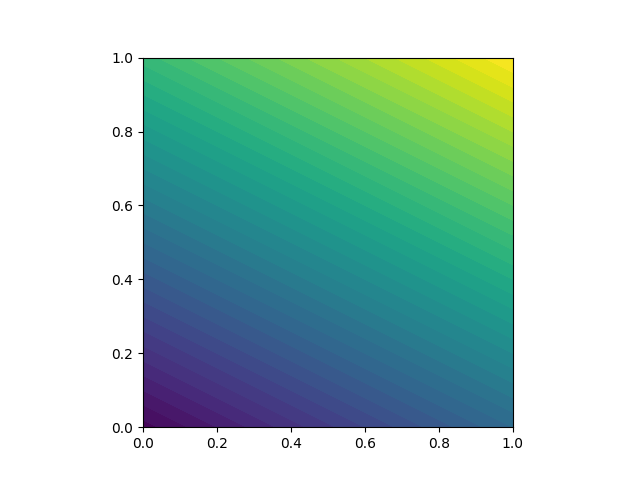
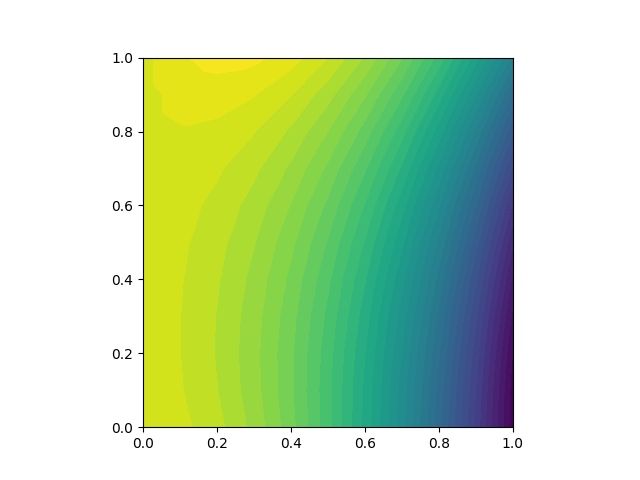
further messed with the nonlinear equation code

diff --git a/Environmental Model/jitfailure-dolfin_expression_3fa635c66722b083da6c61aa50051709/dolfin_expression_3fa635c66722b083da6c61aa50051709.cpp b/Environmental Model/jitfailure-dolfin_expression_3fa635c66722b083da6c61aa50051709/dolfin_expression_3fa635c66722b083da6c61aa50051709.cpp
@@ -1,0 +1,97 @@
+
+// Based on https://gcc.gnu.org/wiki/Visibility
+#if defined _WIN32 || defined __CYGWIN__
+    #ifdef __GNUC__
+        #define DLL_EXPORT __attribute__ ((dllexport))
+    #else
+        #define DLL_EXPORT __declspec(dllexport)
+    #endif
+#else
+    #define DLL_EXPORT __attribute__ ((visibility ("default")))
+#endif
+
+#include <dolfin/function/Expression.h>
+#include <dolfin/math/basic.h>
+#include <Eigen/Dense>
+
+
+// cmath functions
+using std::cos;
+using std::sin;
+using std::tan;
+using std::acos;
+using std::asin;
+using std::atan;
+using std::atan2;
+using std::cosh;
+using std::sinh;
+using std::tanh;
+using std::exp;
+using std::frexp;
+using std::ldexp;
+using std::log;
+using std::log10;
+using std::modf;
+using std::pow;
+using std::sqrt;
+using std::ceil;
+using std::fabs;
+using std::floor;
+using std::fmod;
+using std::max;
+using std::min;
+
+const double pi = DOLFIN_PI;
+
+
+namespace dolfin
+{
+  class dolfin_expression_3fa635c66722b083da6c61aa50051709 : public Expression
+  {
+     public:
+       
+
+       dolfin_expression_3fa635c66722b083da6c61aa50051709()
+       {
+            
+       }
+
+       void eval(Eigen::Ref<Eigen::VectorXd> values, Eigen::Ref<const Eigen::VectorXd> x) const override
+       {
+          values[0] = 1-x[0]**2+0.23*x[1]**3;
+
+       }
+
+       void set_property(std::string name, double _value) override
+       {
+
+       throw std::runtime_error("No such property");
+       }
+
+       double get_property(std::string name) const override
+       {
+
+       throw std::runtime_error("No such property");
+       return 0.0;
+       }
+
+       void set_generic_function(std::string name, std::shared_ptr<dolfin::GenericFunction> _value) override
+       {
+
+       throw std::runtime_error("No such property");
+       }
+
+       std::shared_ptr<dolfin::GenericFunction> get_generic_function(std::string name) const override
+       {
+
+       throw std::runtime_error("No such property");
+       }
+
+  };
+}
+
+extern "C" DLL_EXPORT dolfin::Expression * create_dolfin_expression_3fa635c66722b083da6c61aa50051709()
+{
+  return new dolfin::dolfin_expression_3fa635c66722b083da6c61aa50051709;
+}
+

diff --git a/Environmental Model/jitfailure-dolfin_expression_160daff3d522bcfa064b8c0a8ee6626a/dolfin_expression_160daff3d522bcfa064b8c0a8ee6626a.cpp b/Environmental Model/jitfailure-dolfin_expression_160daff3d522bcfa064b8c0a8ee6626a/dolfin_expression_160daff3d522bcfa064b8c0a8ee6626a.cpp
@@ -1,0 +1,97 @@
+
+// Based on https://gcc.gnu.org/wiki/Visibility
+#if defined _WIN32 || defined __CYGWIN__
+    #ifdef __GNUC__
+        #define DLL_EXPORT __attribute__ ((dllexport))
+    #else
+        #define DLL_EXPORT __declspec(dllexport)
+    #endif
+#else
+    #define DLL_EXPORT __attribute__ ((visibility ("default")))
+#endif
+
+#include <dolfin/function/Expression.h>
+#include <dolfin/math/basic.h>
+#include <Eigen/Dense>
+
+
+// cmath functions
+using std::cos;
+using std::sin;
+using std::tan;
+using std::acos;
+using std::asin;
+using std::atan;
+using std::atan2;
+using std::cosh;
+using std::sinh;
+using std::tanh;
+using std::exp;
+using std::frexp;
+using std::ldexp;
+using std::log;
+using std::log10;
+using std::modf;
+using std::pow;
+using std::sqrt;
+using std::ceil;
+using std::fabs;
+using std::floor;
+using std::fmod;
+using std::max;
+using std::min;
+
+const double pi = DOLFIN_PI;
+
+
+namespace dolfin
+{
+  class dolfin_expression_160daff3d522bcfa064b8c0a8ee6626a : public Expression
+  {
+     public:
+       
+
+       dolfin_expression_160daff3d522bcfa064b8c0a8ee6626a()
+       {
+            
+       }
+
+       void eval(Eigen::Ref<Eigen::VectorXd> values, Eigen::Ref<const Eigen::VectorXd> x) const override
+       {
+          values[0] = 1-x[0]^2+0.23*x[1]^3;
+
+       }
+
+       void set_property(std::string name, double _value) override
+       {
+
+       throw std::runtime_error("No such property");
+       }
+
+       double get_property(std::string name) const override
+       {
+
+       throw std::runtime_error("No such property");
+       return 0.0;
+       }
+
+       void set_generic_function(std::string name, std::shared_ptr<dolfin::GenericFunction> _value) override
+       {
+
+       throw std::runtime_error("No such property");
+       }
+
+       std::shared_ptr<dolfin::GenericFunction> get_generic_function(std::string name) const override
+       {
+
+       throw std::runtime_error("No such property");
+       }
+
+  };
+}
+
+extern "C" DLL_EXPORT dolfin::Expression * create_dolfin_expression_160daff3d522bcfa064b8c0a8ee6626a()
+{
+  return new dolfin::dolfin_expression_160daff3d522bcfa064b8c0a8ee6626a;
+}
+

diff --git a/Environmental Model/diffusion_example.py b/Environmental Model/diffusion_example.py
@@ -6,28 +6,20 @@
 # `q` from FEniCS. We therefore import FEniCS first and then
 # overwrite these objects.
 from fenics import *
-
+import numpy as np
 def q(u):
     "Return nonlinear coefficient"
-    return 1 + u**2
-
-# Use SymPy to compute f from the manufactured solution u
-import sympy as sym
-x, y = sym.symbols('x[0], x[1]')
-u = 1 + x + 2*y
-f = - sym.diff(q(u)*sym.diff(u, x), x) - sym.diff(q(u)*sym.diff(u, y), y)
-f = sym.simplify(f)
-u_code = sym.printing.ccode(u)
-f_code = sym.printing.ccode(f)
-print('u =', u_code)
-print('f =', f_code)
-
+    return 1 + u**3
 # Create mesh and define function space
-mesh = UnitSquareMesh(8, 8)
-V = FunctionSpace(mesh, 'P', 1)
+mesh = UnitSquareMesh(10, 10)
+V = FunctionSpace(mesh, 'P',1)
 
 # Define boundary condition
-u_D = Expression(u_code, degree=2)
+import sympy as sym
+x,y=sym.symbols('x[0],x[1]')
+u_c=1-0.5*x**2+0.23*x*y**2
+u_code=sym.printing.ccode(u_c) 
+u_D = Expression(u_code, degree=3)
 
 def boundary(x, on_boundary):
     return on_boundary
@@ -37,8 +29,7 @@ bc = DirichletBC(V, u_D, boundary)
 # Define variational problem
 u = Function(V)  # Note: not TrialFunction!
 v = TestFunction(V)
-f = Expression(f_code, degree=2)
-F = q(u)*dot(grad(u), grad(v))*dx - f*v*dx
+F = q(u)*dot(grad(u), grad(v))*dx - u**3*v*dx
 
 # Compute solution
 solve(F == 0, u, bc)
@@ -52,7 +43,7 @@ pl.savefig('nonlin_poisson.png')
 # Compute maximum error at vertices. This computation illustrates
 # an alternative to using compute_vertex_values as in poisson.py.
 u_e = interpolate(u_D, V)
-import numpy as np
-error_max = np.abs(u_e.vector().array() - u.vector().array()).max()
+
+error_max = np.abs(u_e.vector() - u.vector()).max()
 print('error_max = ', error_max)
 
